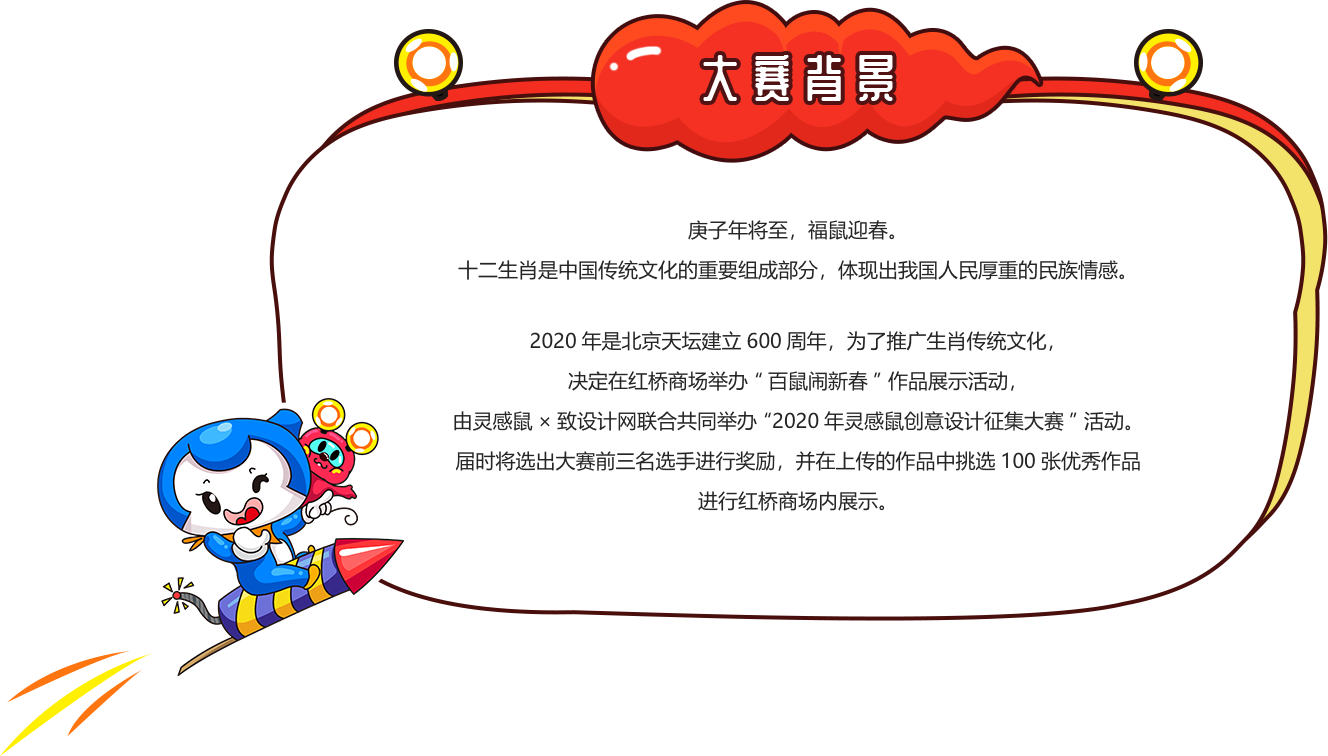
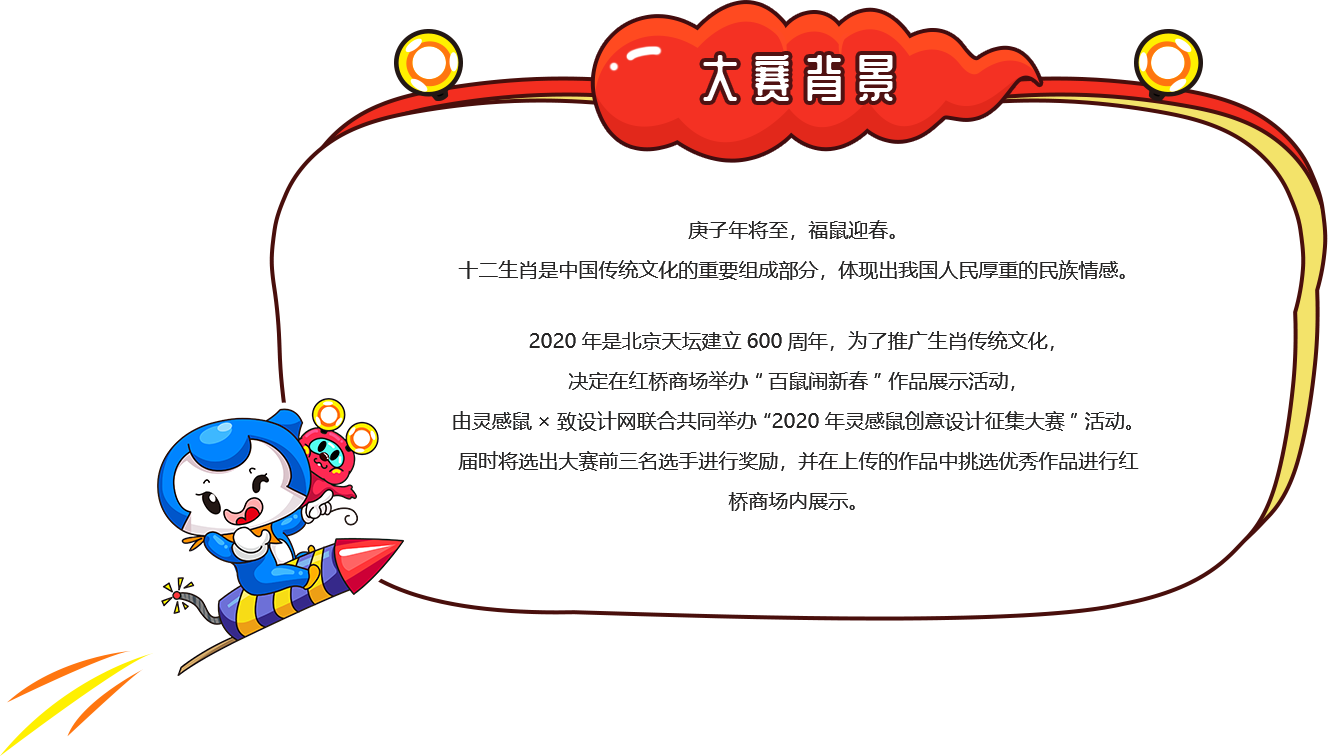
致设计鼠灵感专题调整

Changed region(s): [[0.3396, 0.5476, 0.8645, 0.6997], [0.3396, 0.2738, 0.8645, 0.3955], [0.4014, 0.4259, 0.8027, 0.5172]]

diff --git a/zsj-mouse/main/获奖公布.html b/zsj-mouse/main/获奖公布.html
@@ -119,12 +119,12 @@
 					<h3>各位亲爱的致友</h3>
 					<p>感谢各位对【致设计&灵感鼠 新春IP联名创作大赛】的热情参与和支持！<br>
 					    本次赛事的评委老师已经根据赛事要求评选出大赛的前三名获奖者，<br>
-					    并挑选出100张优秀作品在北京红桥商场内展示。<br>
+					    并挑选出优秀作品在北京红桥商场内展示。<br>
 					    赛事评选结束后，<br>
-					    我们将于10个工作日内练习各位设计师进行奖品下发和作品源文件交接，<br>
+					    我们将于10个工作日内联系各位设计师进行奖品下发和作品源文件交接，<br>
 					    请留意致设计网的私信消息。</p>
 					<div class="ecode">
-						<img src="images/ecode.png" alt="">
+						<img src="../images/ecode.png" alt="">
 					</div>
 				</div>
 			</div>
